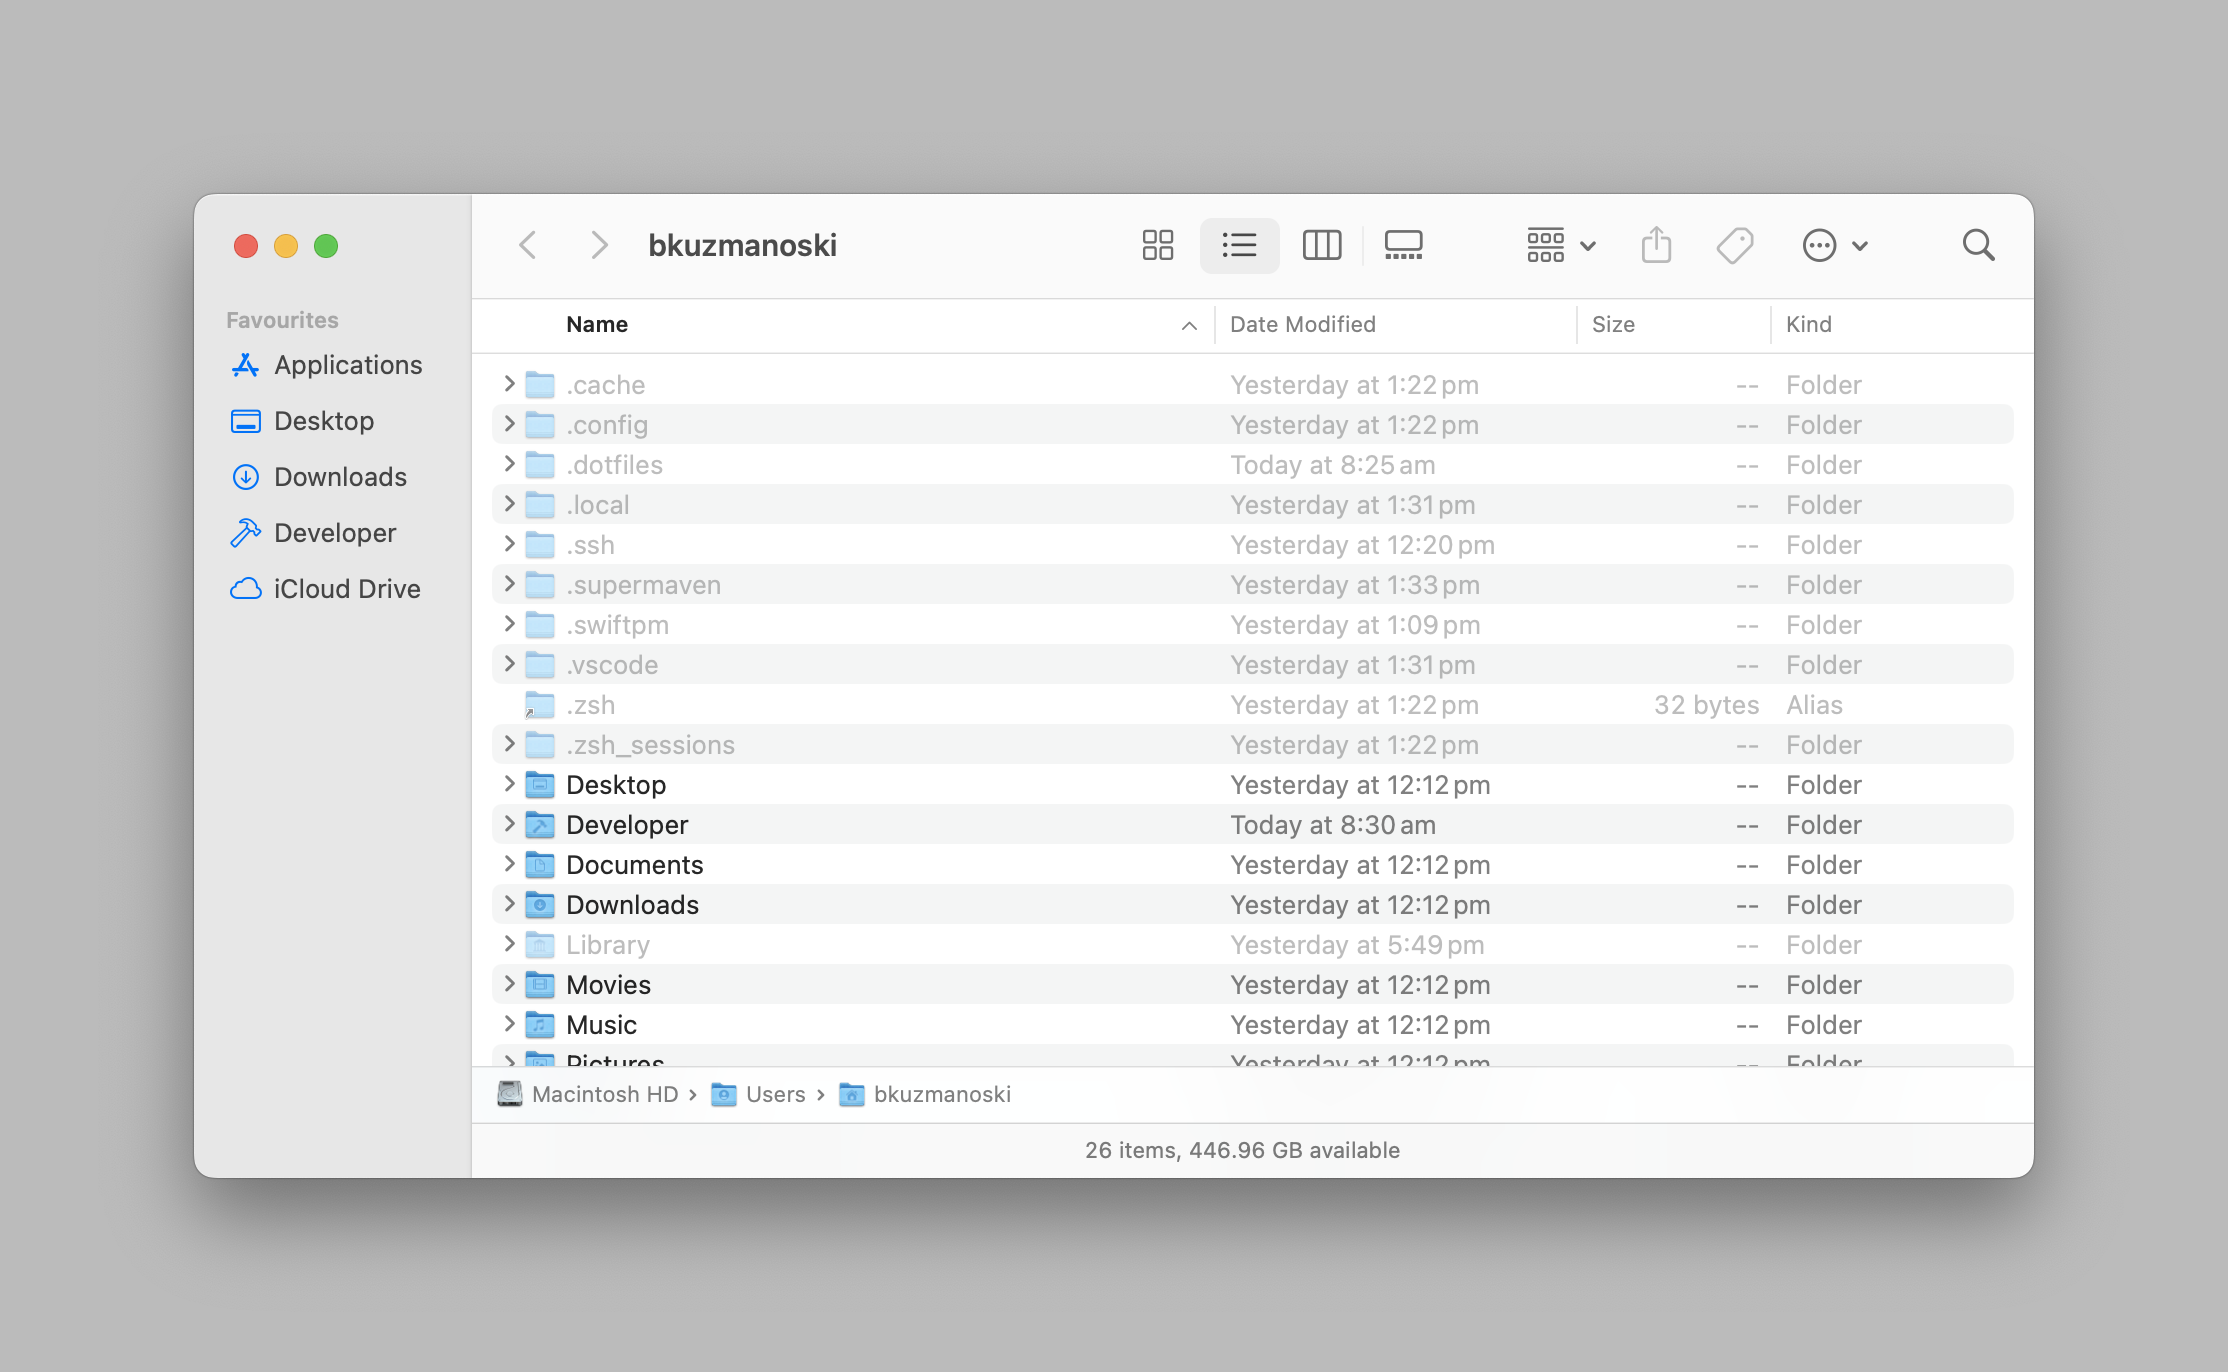
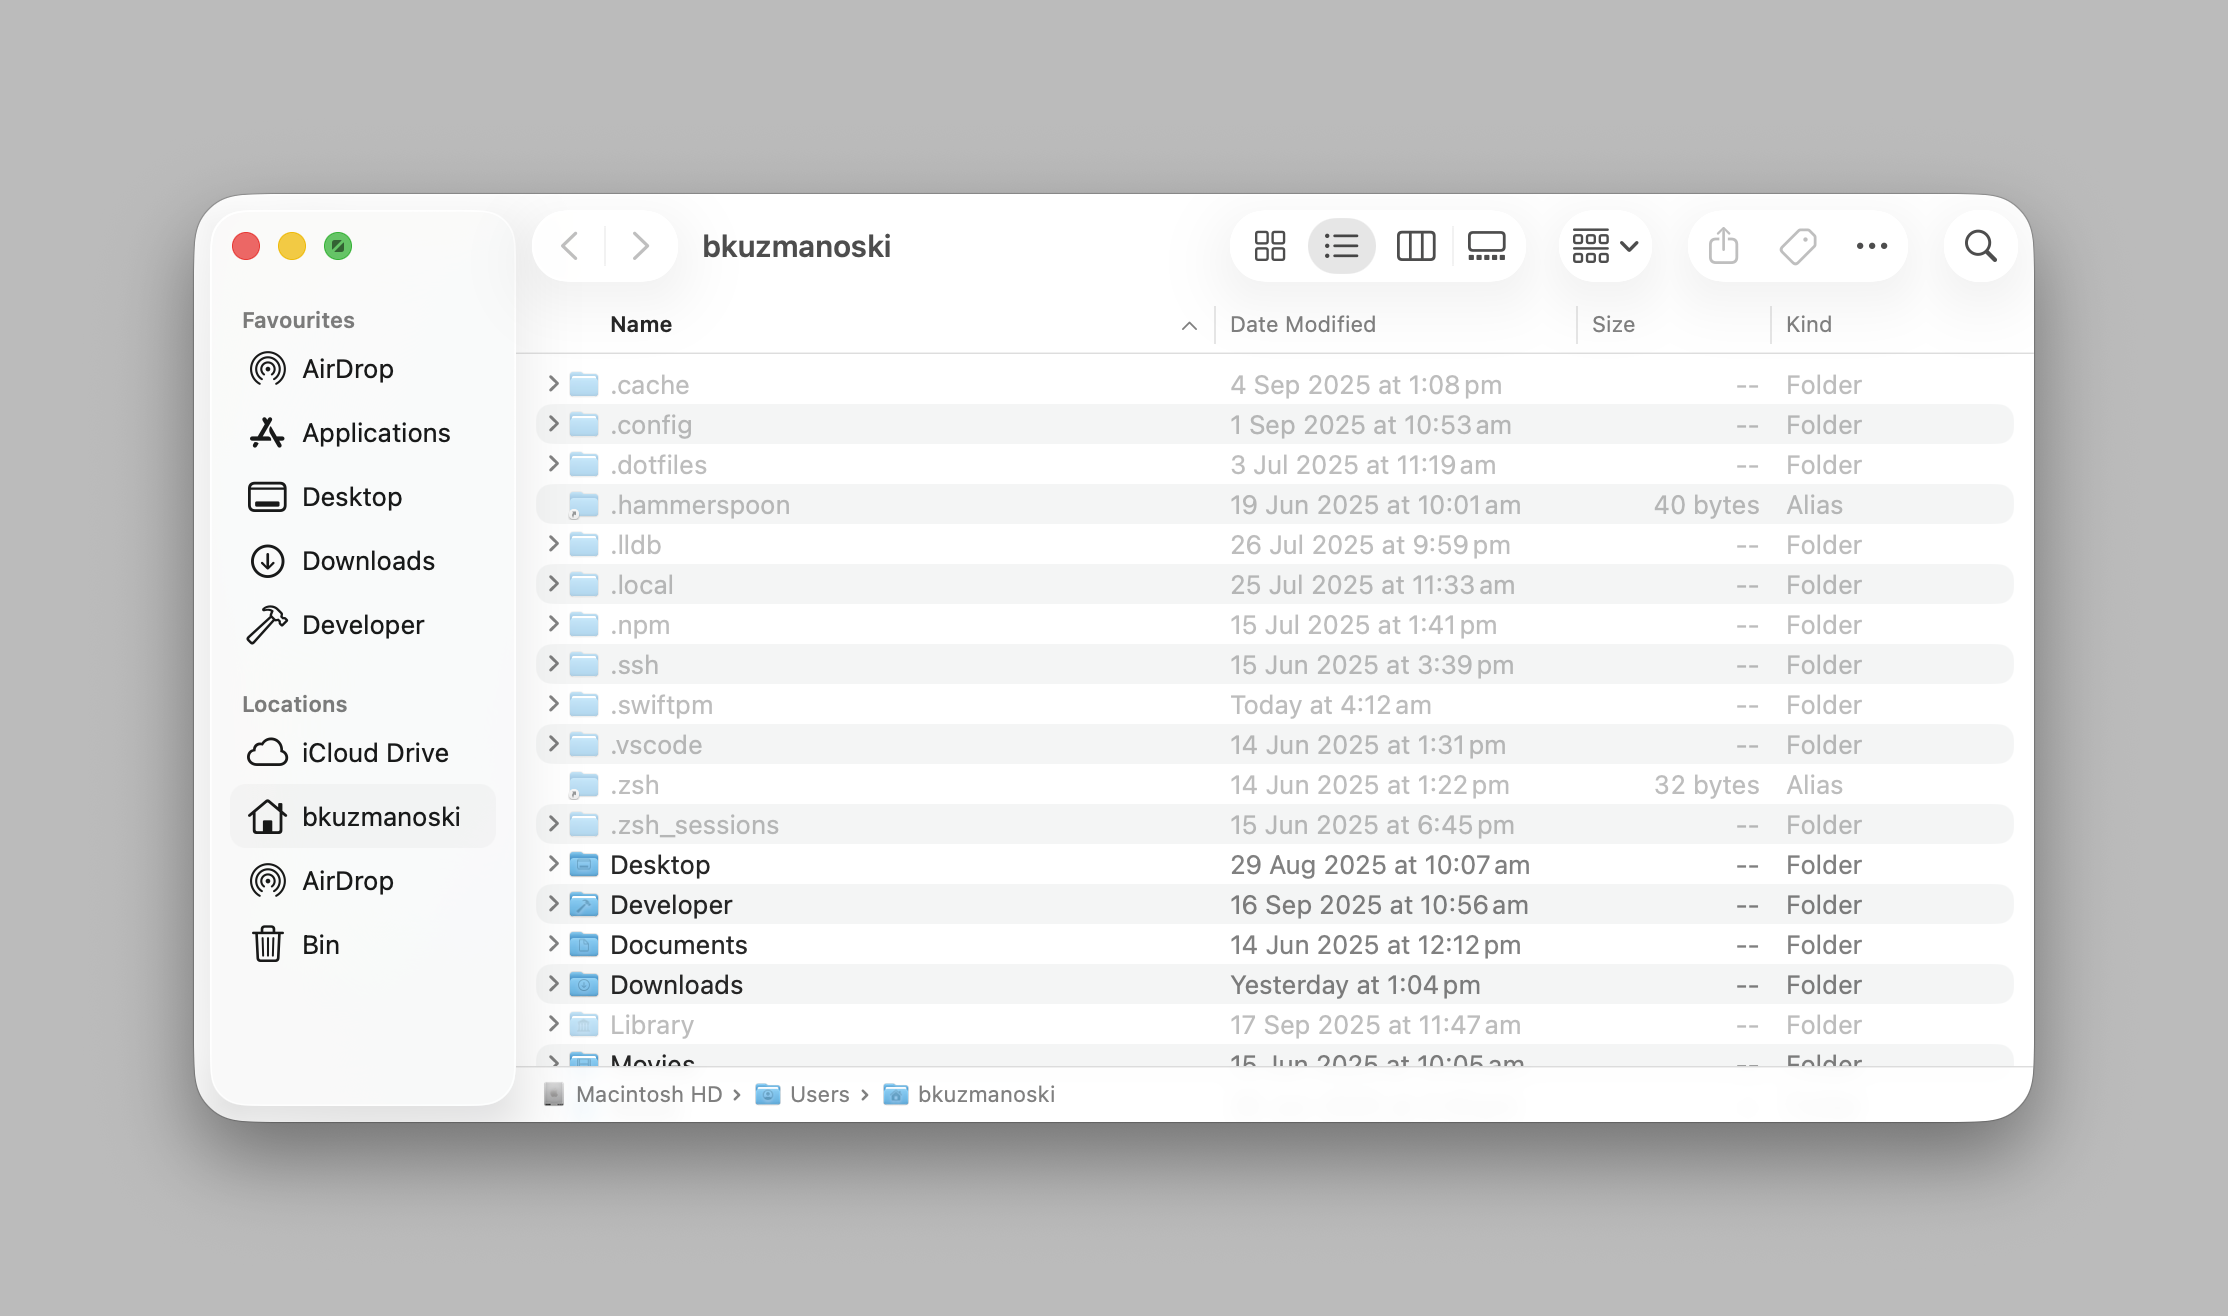
Tahoe updates

diff --git a/readme.md b/readme.md
@@ -64,9 +64,9 @@ Not included: Google Chrome and VS Code configurations (synced via account).
 - **macOS**:
 
   - System settings:
-    - Control Centre → Wi-Fi → Select "Don't Show in Menu Bar"
-    - Control Centre → Now Playing → Select "Don't Show in Menu Bar"
-    - Control Centre → Spotlight → Select "Don't Show in Menu Bar"
+    - Menu Bar → Turn off "Wi-Fi"
+    - Menu Bar → Turn off "Now Playing"
+    - Menu Bar → Turn off "Spotlight"
     - Displays → Turn off "Automatically adjust brightness"
     - Keyboard → Keyboard Shortcuts → Mission Control → Click on "Restore Defaults"
   - Set up Finder sidebar favorites (see reference screenshot)
@@ -80,7 +80,7 @@ Not included: Google Chrome and VS Code configurations (synced via account).
     - Settings → Composing → Set "Message format" to "Plain Text"
     - Settings → Composing → Set "Undo send delay" to "Off"
     - Settings → Composing → Turn on "Use the same message format as the original message"
-  - Set up Notification Centre layout (see reference screenshot)
+  - Set up Menu Bar and Notification Centre layout (see reference screenshot)
 
 - **1Password**
 